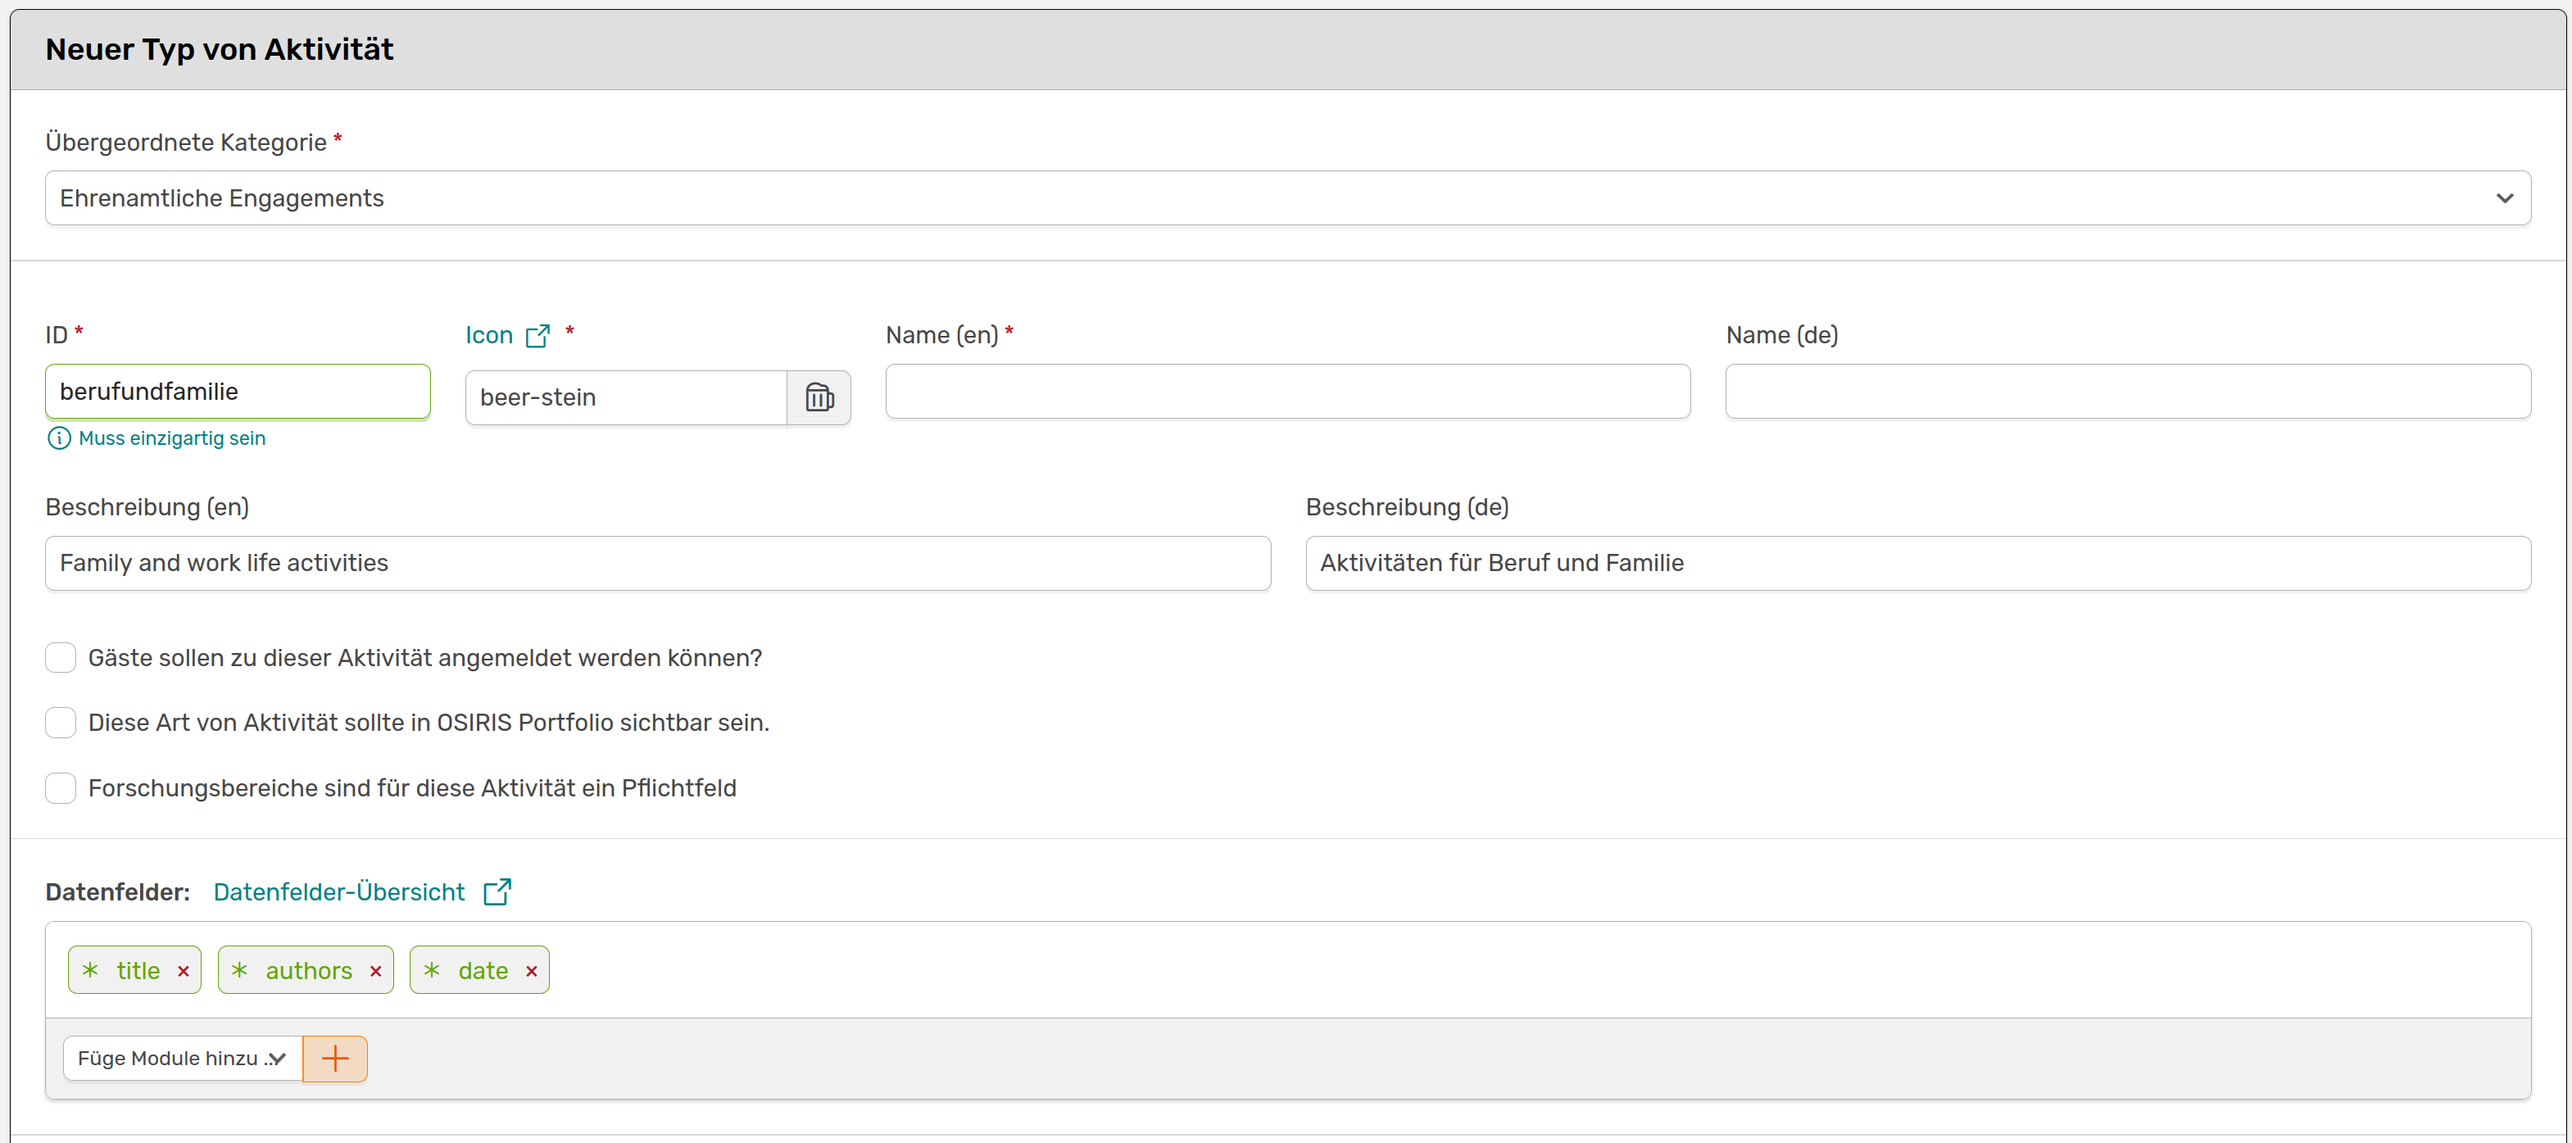
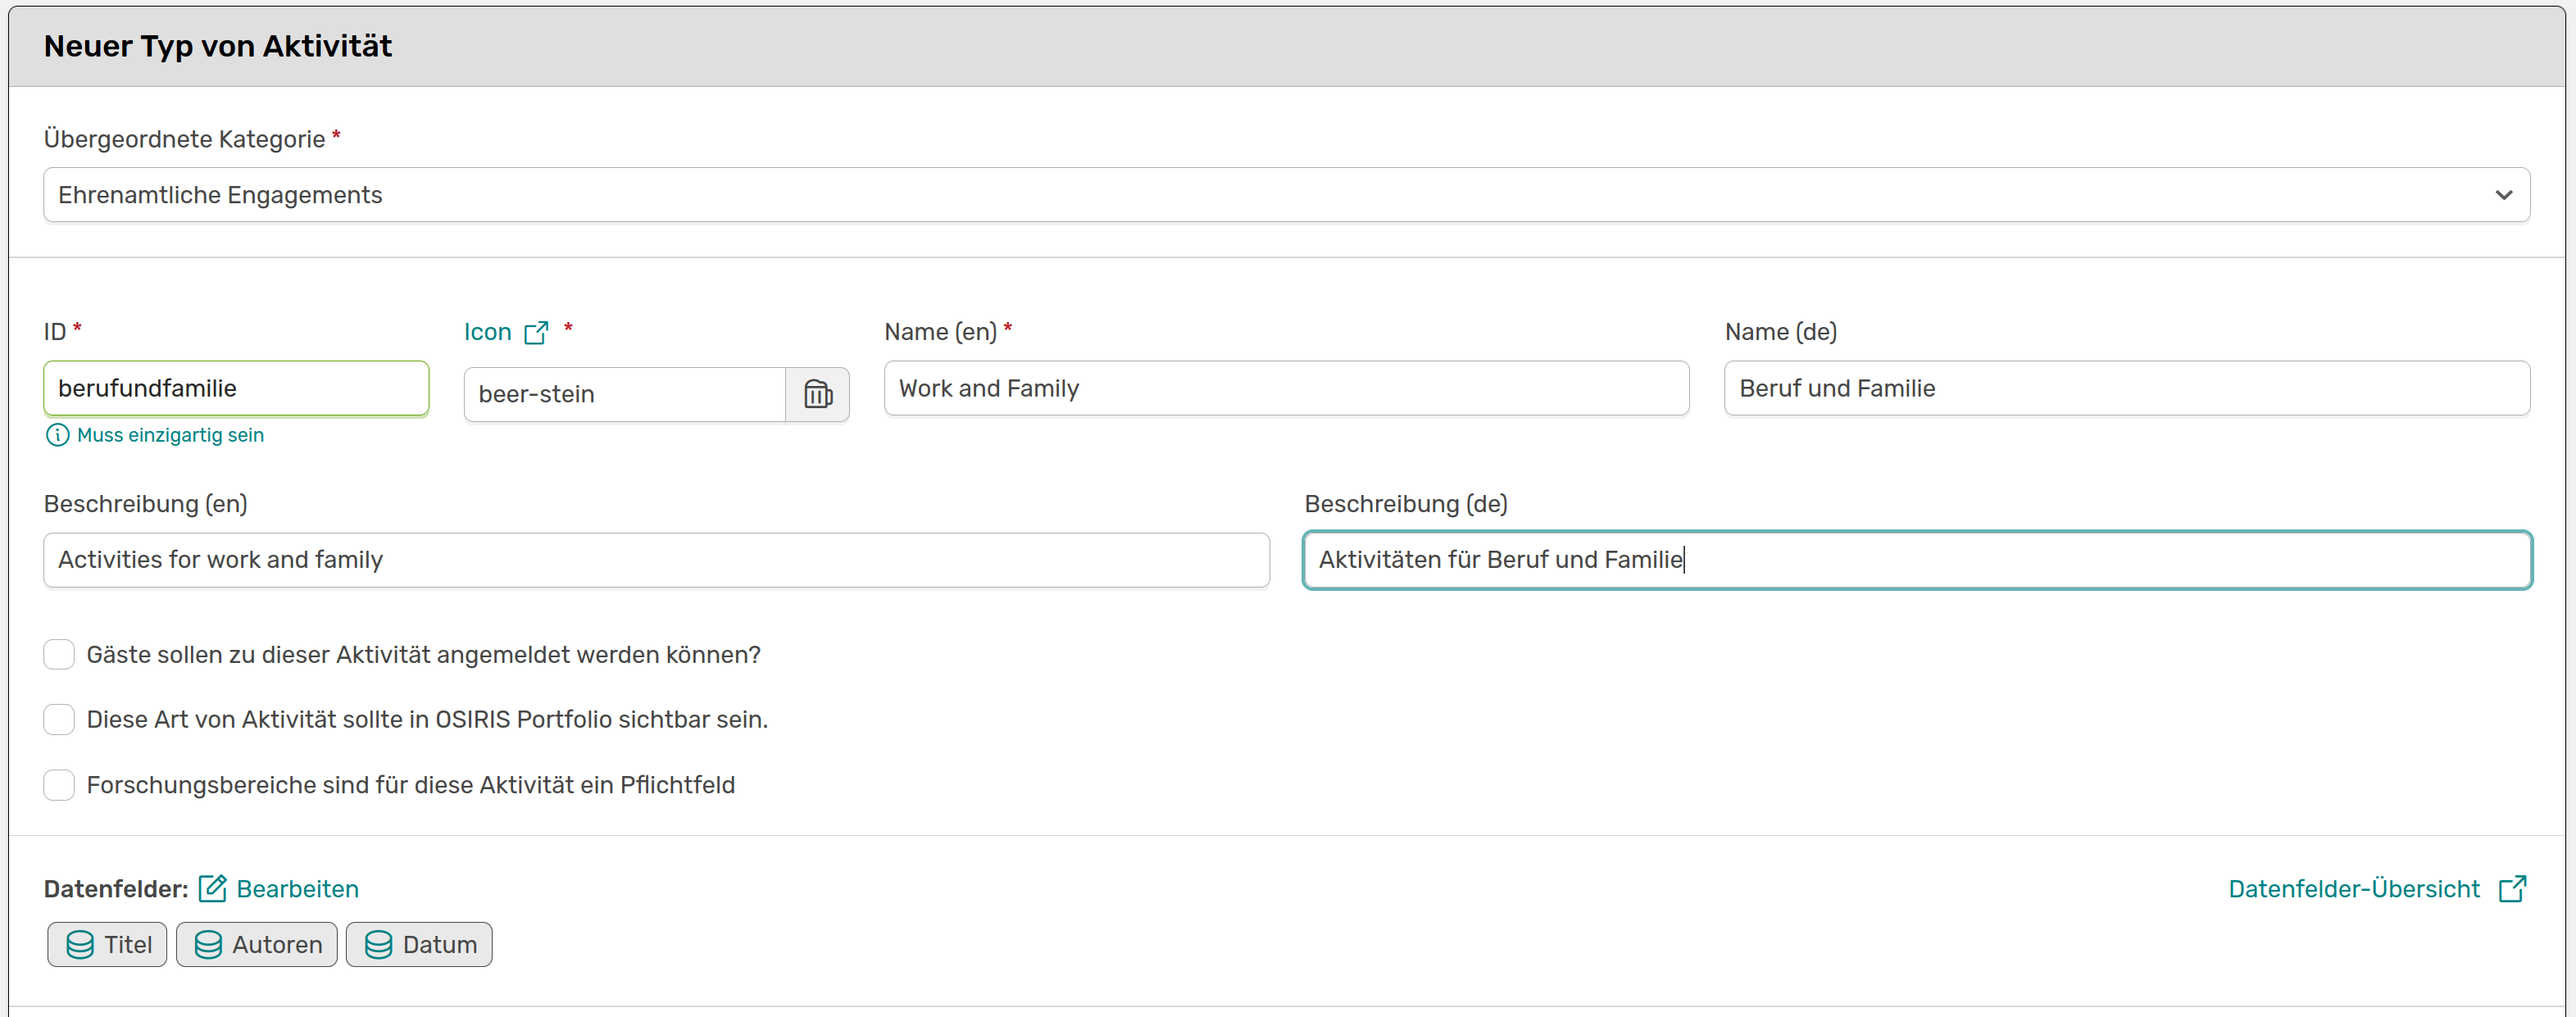
added formular-builder and updated according to version 1.5.1

diff --git a/docs/admins/content/activities.md b/docs/admins/content/activities.md
@@ -9,6 +9,7 @@ Die Aktivitäten in OSIRIS sollen im besten Fall alles abdecken, womit sich Fors
 Standardmäßig findest du in OSIRIS folgende Kategorien mit ihren Typen:
 
 - Publikationen
+??? example "Typen von Publikationen" 
     - Journal Article
     - Non-refereed
     - Buch
@@ -18,29 +19,36 @@ Standardmäßig findest du in OSIRIS folgende Kategorien mit ihren Typen:
     - Weitere Publikationen
 
 - Vorträge
+??? example "Typen von Vorträgen" 
     - Vortrag
 
 - Reviews & Editorials
+??? example "Typen von Reviews & Editorials" 
     - Peer-Review
     - Editorenschaft
     - Review einer Abschlussarbeit
     - Sonstiges Review
 
 - Poster
+??? example "Typen von Postern" 
     - Poster
 
 - Studierende & Gäste
+??? example "Typen von Studierende & Gäste" 
     - Studenten
     - Abschlussarbeiten
     - Gäste
 
 - Lehre
+??? example "Typen von Lehre" 
     - Lehre
 
 - Software & Daten
+??? example "Typen von Software & Daten" 
     - Software & Daten
 
 - Awards
+??? example "Typen von Awards" 
     - Award
 
 
@@ -73,11 +81,60 @@ So wird die von dir gewählte Beschreibung dann in der Vorlage der Aktivität au
 ///
 
 
-Sei dir bewusst, dass bei der Wahl *Diese Art von Aktivität sollte in OSIRIS Portfolio sichtbar sein* alle unter diesem Typen eingetragenen Aktivitäten über die Website nach außen hin sichtbar sind. 
-
-Du kannst deiner Vorlage unterschiedliche Datenfelder hinzufügen. Das Feld *authors* sollte hier immer dabei sein, da die Aktivität sonst keiner Person zugeordnet werden kann und in der Datenbank nicht auffindbar ist. Das gleiche gilt für das *date* Feld. Um ein Datenfeld verpflichtend (mit * versehen) zu machen musst du einfach nur doppelt draufklicken. Nachdem du gespeichert hast sollte dein neu erstellter Typ von Aktivität in der Auflistung der Kategorie erscheinen und steht jedem Nutzenden für einen entsprechenden Eintrag zur Verfügung.
+Sei dir bewusst, dass bei der Wahl *Diese Art von Aktivität sollte in OSIRIS Portfolio sichtbar sein* alle unter diesem Typen eingetragenen Aktivitäten über die Website nach außen hin sichtbar sind. Nachdem du gespeichert hast sollte dein neu erstellter Typ von Aktivität in der Auflistung der Kategorie erscheinen und steht jedem Nutzenden für einen entsprechenden Eintrag zur Verfügung.
 
 ![Beispiel](screenshots/neue_typen_beispiel.png)
 ///caption
 Die neu erstellte Kategorie **ehrenamtliche Engagements** mit den neu erstellten Typen **Betriebsrat** und **Beruf und Familie**.
 ///
+
+
+<!-- md:version 1.5.1 -->
+
+## Formular-Builder
+
+Mit dem neuen Formular-Builder kannst du die Vorlagen für Aktivitäten noch flexibler gestalten. Du gelangst mit einem Klick auf *bearbeiten* neben den Datenfeldern zu dem Builder.
+
+![Datenfelder](screenshots/Datenfelder.png)
+///caption
+Mit einem Klick auf bearbeiten gelangst du zu dem Formular-Builder.
+///
+
+Der Formular-Builder ist in zwei Teile eingeteilt: Links die Felder und Layout-Optionen, die du deinem Formular hinzufügen kannst und rechts alle Felder, die du deinem Formular hinzugefügt hast. Hier siehst du direkt die Standard-Felder *Titel*, *Autoren* und *Datum*, welche bei jeder Aktivität angegeben werden müssen. Du kannst die Anordnung der Felder ändern indem du sie am linken Rand festhältst und zum gewünschten Platz ziehst.  
+Links siehst du ein Suchfeld um alle vorhandenen Datenfelder zu durchsuchen sowie Filteroptionen nach Themen. Zudem siehst du die Layout-Optionen *Überschrift*, *Trennlinie* und *Absatz*, die du deinem Formular beliebig hinzufügen kannst.  
+Die Auflistung der Datenfelder beginnt mit den von dir erstellten benutzerdefinierten Feldern. Infos zu den Datenfeldern bekommst du mit einem Klick auf das Fragezeichen rechts.  
+
+![Formular-Builder](screenshots/builder1.png)
+///caption
+Der Formular-Builder in OSIRIS mit dem du die Aktivitäten-Vorlage individuell gestalten kannst.
+///
+
+
+Du kannst dir dein erstelltes Formular immer mit einem Klick auf *Vorschau* anzeigen lassen - denke daran vorher immer zu speichern!  
+Oben rechts siehst du einen Button, der es dir ermöglicht schon bestehende Formulare aus OSIRIS zu laden und diese nach deinen Vorstellungen weiter anzupassen.  
+:warning: Dein bestehendes Formular wird durch die Auswahl einer Vorlage überschrieben - allerdings erst final wenn du speicherst.
+
+![Builder Poster erweitert](screenshots/builder_poster_erweitert.png)
+///caption
+Nach der Auswahl der Vorlage **Poster** wurden dieser noch weitere Felder zur Dokumentation eines Vortrags hinzugefügt. Um die beiden Infos gut voneinander unterscheiden zu können wurden die Layout-Elemente verwendet und Überschriften, Beschreibungen und Trennlinien eingefügt.
+///
+
+![Builder Poster erweitert Vorschau](screenshots/builder_poster_erweitert_vorschau.png)
+///caption
+Nachdem alles gespeichert wurde kannst du dir eine Vorschau deines Formulars ansehen. 
+///
+
+In der Vorschau siehst du wie deine Formular-Bausteine durch OSIRIS umgesetzt wurden und wie die Nutzenden die Vorlage bei einem neuen Eintrag einer Aktivität sehen werden.  
+Jedes Feld kann mit einem Klick bearbeitet, als Pflichtfeld markiert oder auch gelöscht werden. Bei manchen Feldern kannst du eine Hilfe für die Nutzenden hinzufügen, die sie sehen wenn sie in das Feld klicken.
+
+![Builder Location Help](screenshots/builder_help_location.png)
+
+---
+
+![Builder location Help Vorschau](screenshots/builder_help_location_vorschau.png)
+///caption
+Oben siehst du das **Eigenschaften** Feld für das Datenfeld "location". Hier kannst du einen Hilfetext hinzufügen, den die Nutzenden wie im unteren Bild gezeigt beim Ausfüllen des Formulars sehen.  
+///
+
+Die Eigenschaften-Felder unterscheiden sich je nach Datenfeld, beinhalten aber immer den **löschen**-Button. Zudem kannst du hier die Breite des Datenfeldes nach deinen Vorstellungen anpassen.  
+Nachdem du alle Änderungen gespeichert hast können Nutzende die geänderte Vorlage direkt bei den Aktivitäten finden.

diff --git a/docs/admins/content/custom-fields.md b/docs/admins/content/custom-fields.md
@@ -28,14 +28,12 @@ Für das Feld kannst du eine der hier aufgelisteten Formate wählen:
 
 ![custom fields layout](screenshots/custom_fields_layout.png)
 ///caption
-So sehen die Custom Fields aus, wenn sie einer Aktivität hinzugefügt wurden. Du siehst, dass der gewählte Name oben als Bezeichnung für das Feld verwendet wird. Um in der Liste mehrere Optionen zu wählen müssen die Nutzenden die STRG-Taste gedrückt halten.
+So sehen die Custom Fields aus, wenn sie einer Aktivität hinzugefügt wurden. Du siehst, dass der gewählte Name oben als Bezeichnung für das Feld verwendet wird. 
 ///
 
-Du kannst die Reihenfolge der Felder bei dem Erstellen der Aktivitäten-Vorlage über Drag-and-Drop der Datenfelder bestimmen.
-
-![custom fields order](screenshots/custom_fields_order.png)
+![custom fields liste](screenshots/custom_fields_liste.png)
 ///caption
-Die Reihenfolge der Felder bestimmt die Auflistung der Felder in der Vorlage.
+Nutzende können in der Liste per Dropdown eine Mehrfachauswahl treffen, wenn dies von dir zugelassen wurde.
 ///
 
-Es wird empfohlen eher mehr benutzerdefinierte Felder anzulegen als zu versuchen, zu viele Informationen mit einem Feld abzufragen. 
+Du kannst die Reihenfolge der Datenfelder mit Hilfe des [Formular-Builders](https://wiki.osiris-app.de/admins/content/activities/#formular-builder) ändern. Hier findest du deine benutzerdefinierten Felder zusammen mit allen anderen zur Verfügung stehenden Datenfelder und kannst individuelle Vorlagen für Aktivitäten erstellen. 

diff --git a/docs/users/profile/start.md b/docs/users/profile/start.md
@@ -1,0 +1,25 @@
+---
+status: draft
+---
+!!! warning "Seite im Aufbau"
+    Diese Seite befindet sich noch im Aufbau. Wir bitten um Geduld. 
+    
+# Deine Startseite
+
+Auf deiner Startseite findest du auf einem Blick all die wichtigen Informationen. 
+
+
+??? info "Startseite für Wissenschaftler:innen"
+    Wenn dir dir Rolle des Scientist zugeordnet wurde, ist deine Startseite links unter &#8594 Mein Bereich um die Seiten *Mein Jahr* und *Meine Aktivitäten* erweitert. 
+    ## Mein Jahr
+     ![Mein Jahr](screenshots/mysite.png)
+    ///caption
+    Das ist ein Beispiel
+    ///
+
+    ## Meine Aktivitäten
+
+
+??? info "Startseite für Editoren"
+    Wenn dir die Rolle des Editors zugeordnet wurde, ist deine Startseite um ein eine Ansicht über die Quartalsübersicht erweitert und um direkte Links zu *Dashboard*, *Berichte*, *Aktivitäten sperren* und dem *Admin-Panel*.
+

diff --git a/docs/users/index.md b/docs/users/index.md
@@ -7,3 +7,5 @@ status: draft
 
 !!! warning "Seite im Aufbau"
     Diese Seite befindet sich noch im Aufbau. Wir bitten um Geduld.
+
+OSIRIS hat das Ziel, dir deine Arbeit in deiner individuellen Rolle, sei es die Dokumentation deiner Forschung als Wissenschaftler:in, die Verwaltung des Kollegiums als Personalabteilung oder das Erstellen von Berichten für das Controlling, zu erleichtern. Dafür kann das System durch den Administrator passend für eure Bedürfnisse angepasst werden und bietet jeder Rolle unterschiedliche Möglichkeiten.  

diff --git a/docs/users/profile/myarea.md b/docs/users/profile/myarea.md
@@ -1,0 +1,8 @@
+testtest
+
+<details>
+<summary>Ansicht für für Wissenschaftler:innen</summary>
+
+## Meine Seite
+</details>
+
